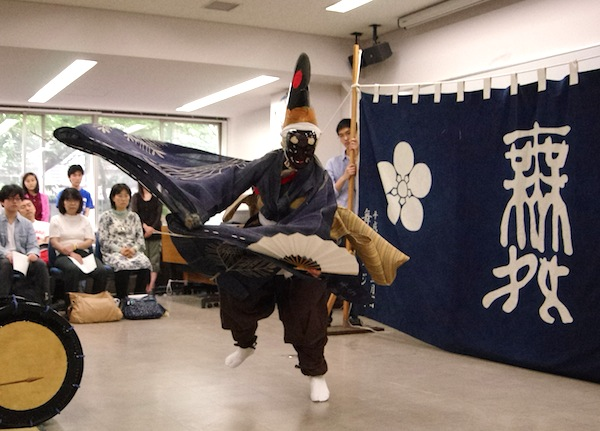
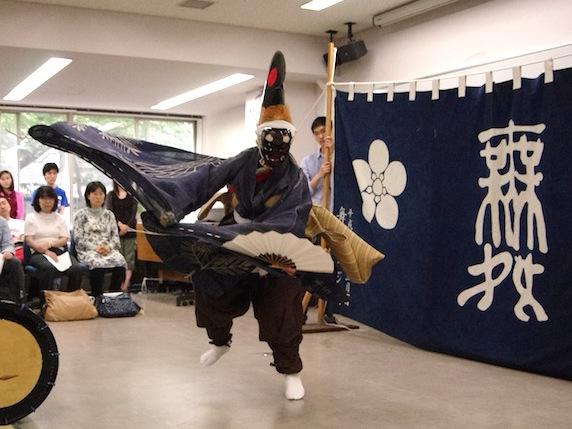
改行・画像サイズ微修正

diff --git a/webroot/introduction.html b/webroot/introduction.html
@@ -35,7 +35,7 @@
 				<h3>おことわり</h3>
 				<p>　当会は、東京大学の顧問教員を戴いて活動する学術サークルであり、<span class="red bold">届出団体</span>かつ<span class="red bold">学友会加盟団体</span>です。<span class="red bold">当会は政治思想団体や新興宗教団体とは一切関係ありません</span>。当会は「組織としての中立」を旨とし、会として<span class="red bold">政治的・宗教的活動や主張をすることはありません</span>。また、<span class="red bold">政治団体や宗教団体への勧誘行為・布教行為は一切禁止</span>、<span class="red bold">他者への思想の押し付け行為等も一切禁止</span>、とさせて頂いております。 <a href="faq.html">よくある質問</a> もご覧ください。</p>
 				<h3>活動場所</h3>
-				<p>神社研の部室は、東京大学駒場Ⅰキャンパス キャンパスプラザＢ棟 ３階 307号室です（（<a href="http://www.u-tokyo.ac.jp/campusmap/cam02_01_43_j.html">キャンパスプラザの位置地図</a>）。最寄り駅は京王井の頭線の駒場東大前駅です。お気軽にお越しください。</p>
+				<p>神社研の部室は、東京大学駒場Ⅰキャンパス キャンパスプラザＢ棟 ３階 307号室です（<a href="http://www.u-tokyo.ac.jp/campusmap/cam02_01_43_j.html">キャンパスプラザの位置地図</a>）。最寄り駅は京王井の頭線の駒場東大前駅です。お気軽にお越しください。</p>
 			</div>
 			</div>
 			<div id="global-footer" class="clearfix">

diff --git a/webroot/index.html b/webroot/index.html
@@ -90,12 +90,11 @@
 							<p>最新情報はこちらにあることが多いので、新歓や探訪にご参加される際には一度ご確認をお願いします。</p>
 							<p>
 								<span class="bold">Twitter: <a href="https://twitter.com/jinjaken">@jinjaken</a></span><br>
-<br>
-								<span class="bold">新歓メール: jinjaken.shinkan★gmail.com</span>（★を@に変えてください）
-								通常メール: jinjaken★gmail.com（★を@に変えてください）
-
+								<span class="bold">新歓メール: jinjaken.shinkan★gmail.com</span><br>
+								通常メール: jinjaken★gmail.com<br>
+								（★を@に変えてください）<br>
 								<a href="http://jinzya.blog86.fc2.com/">ブログ（更新停止中）</a><br>
-								<a href="https://ja-jp.facebook.com/jinjaken">facebook（更新停止中）</a><br>
+								<a href="https://ja-jp.facebook.com/jinjaken">facebook（更新停止中）</a>
 							</p>
 						</div>
 					</div>
